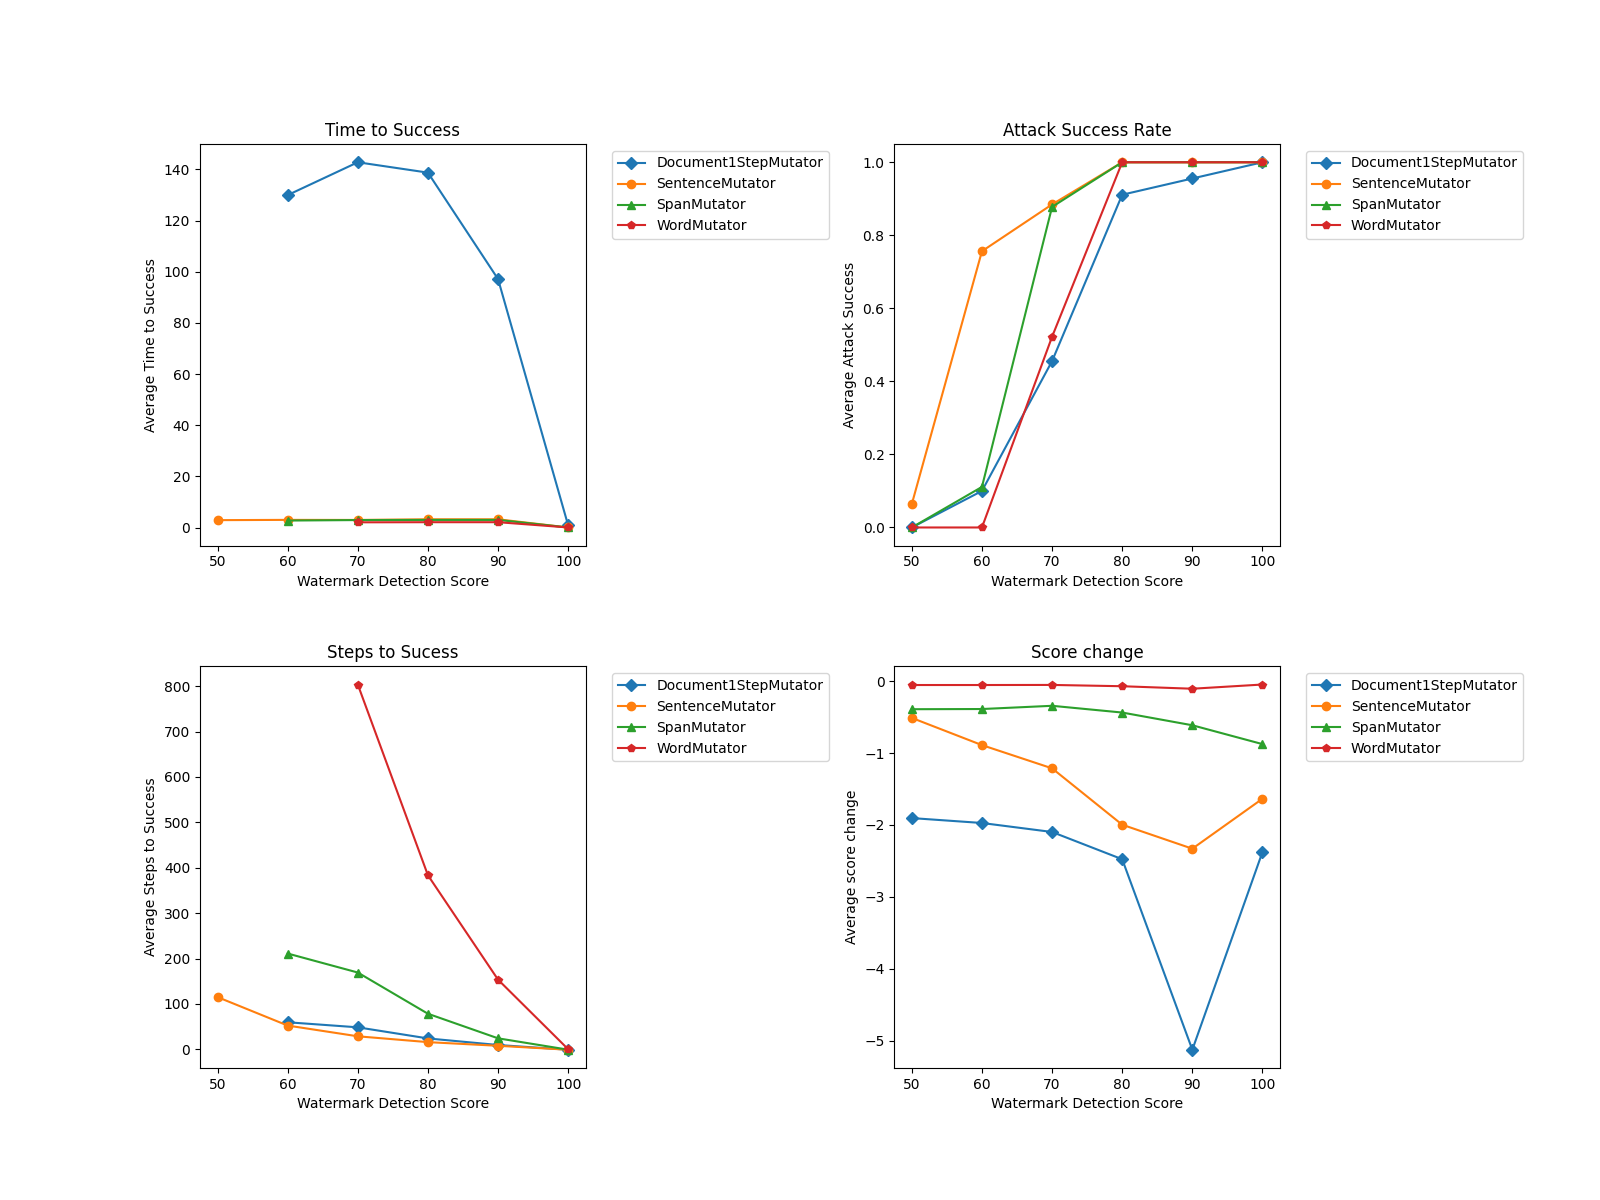
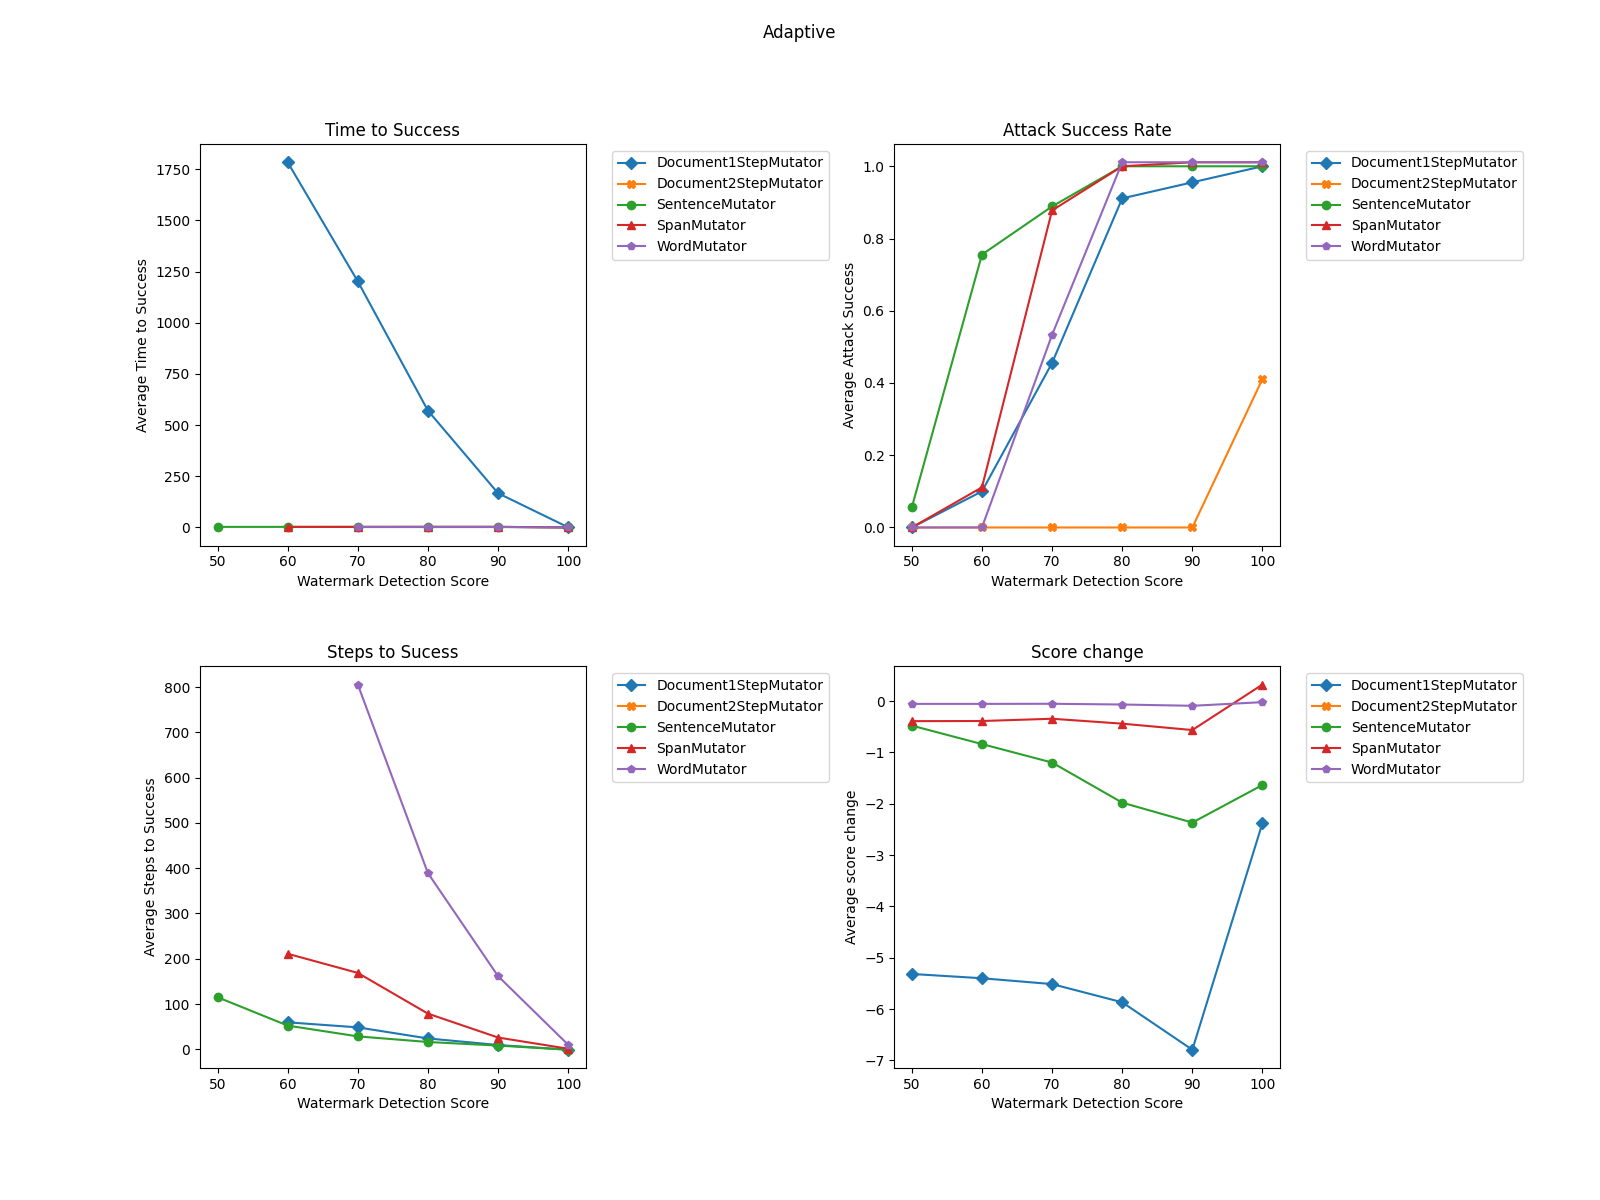
mini update

diff --git a/attack/analysis/attack_metrics.py b/attack/analysis/attack_metrics.py
@@ -99,20 +99,23 @@ if __name__ == "__main__":
     "WordMutator",
     "EntropyWordMutator",
 ]
-    watermarks = ["Adaptive", "KGW"]
+    watermarks = ["Adaptive", "KGW", "SIR"]
 
     cutoffs = {
         "Adaptive" : [50, 60, 70, 80, 90, 100],
-        "KGW" :  [0, 0.5, 1, 2, 3, 6]
+        "KGW" :  [0, 0.5, 1, 2, 3, 6],
+        "SIR" : [0, 0.1, 0.2, 0.3, 0.5, 1]
+
     }
     labels = ["Average Time to Success", "Average Attack Success", "Average Steps to Success", "Average score change"]
     titles = ["Time to Success", "Attack Success Rate", "Steps to Sucess", "Score change"]
   
 
-    mutator_markers = ["s", "D", "X", "o", "^", "p"]
+    mutator_markers = ["s", "D", "X", "o", "^", "p", ".", "<", ">"]
     for idx, watermarker in enumerate(watermarks):
         print(f"Plotting {watermarker}")
         fig, axs = plt.subplots(2, 2, figsize=(16, 12))
+        fig.suptitle(f"{watermarker}")
         # plt.subplots_adjust(left=.1, bottom=None, right=None, top=None, wspace=.3, hspace=None)
         axsl = [axs[0,0], axs[0,1], axs[1,0], axs[1,1]]
         for idm, mutator in enumerate(mutators):
